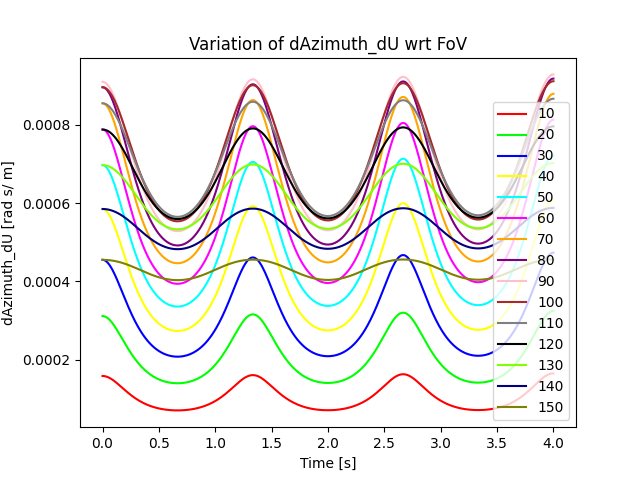
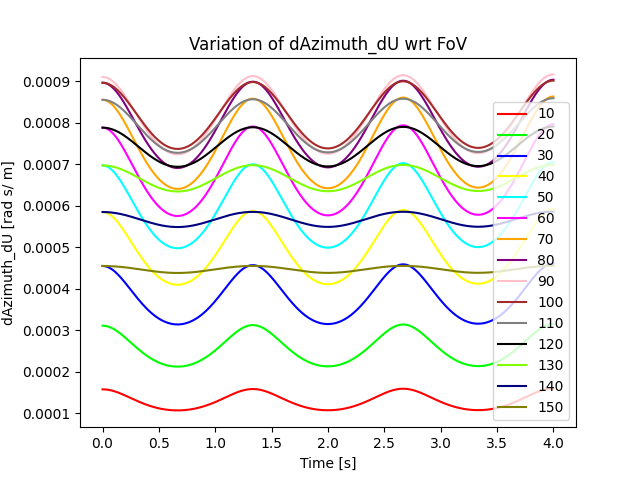
Testing

diff --git a/FoVCalc copy.py b/FoVCalc copy.py
@@ -174,7 +174,7 @@ points_world = create_ground_points(xRange, yRange, zHeight, nPoints)
 
 t = np.linspace(0,4,600)
 dt = t[1] - t[0]
-input = -3/100 * np.sin((1/2 * 3)*np.pi*t)
+input = -1/100 * np.sin((1/2 * 3)*np.pi*t)
 # input = -1/100 * np.sin((1/2 * 10)*np.pi*t)
 # input = -1/100 * np.ones_like(t)
 # input[t<0.5] = 0
@@ -187,7 +187,7 @@ ax=plt.gca()
 behaviour.plot(kind="line", x="Time", y="Input", ax=ax)
 plt.xlabel('Time [s]')
 plt.ylabel('Control Input [rad/s]')
-plt.savefig("Input")
+plt.savefig("Visuals/Input")
 plt.legend()
 
 plt.figure(figure)
@@ -196,7 +196,7 @@ ax=plt.gca()
 behaviour.plot(kind="line", x="Time", y="Theta_deg", ax=ax)
 plt.xlabel('Time [s]')
 plt.ylabel('Theta [deg]')
-plt.savefig("Theta")
+plt.savefig("Visuals/Theta")
 plt.legend()
 
 plt.figure(figure)
@@ -205,7 +205,7 @@ ax=plt.gca()
 behaviour.plot(kind="line", x="Time", y="U", ax=ax)
 plt.xlabel('Time [s]')
 plt.ylabel('U [m/s]')
-plt.savefig("U")
+plt.savefig("Visuals/U")
 plt.legend()
 
 
@@ -324,7 +324,7 @@ plt.plot(FoVRange,allMeans_dAzDTheta,label="dAz_dTheta",marker = "x")
 plt.plot(FoVRange,allMeans_dEleDU,label="dEle_dU",marker = "x")
 plt.plot(FoVRange,allMeans_dEleDTheta,label="dEle_dTheta",marker = "x")
 plt.legend()
-plt.savefig("Visuals/FOVBehaviour_highAmp")
+plt.savefig("Visuals/FOVBehaviour_sine")
 plt.show() 
 exit()
 fig = plt.figure()
